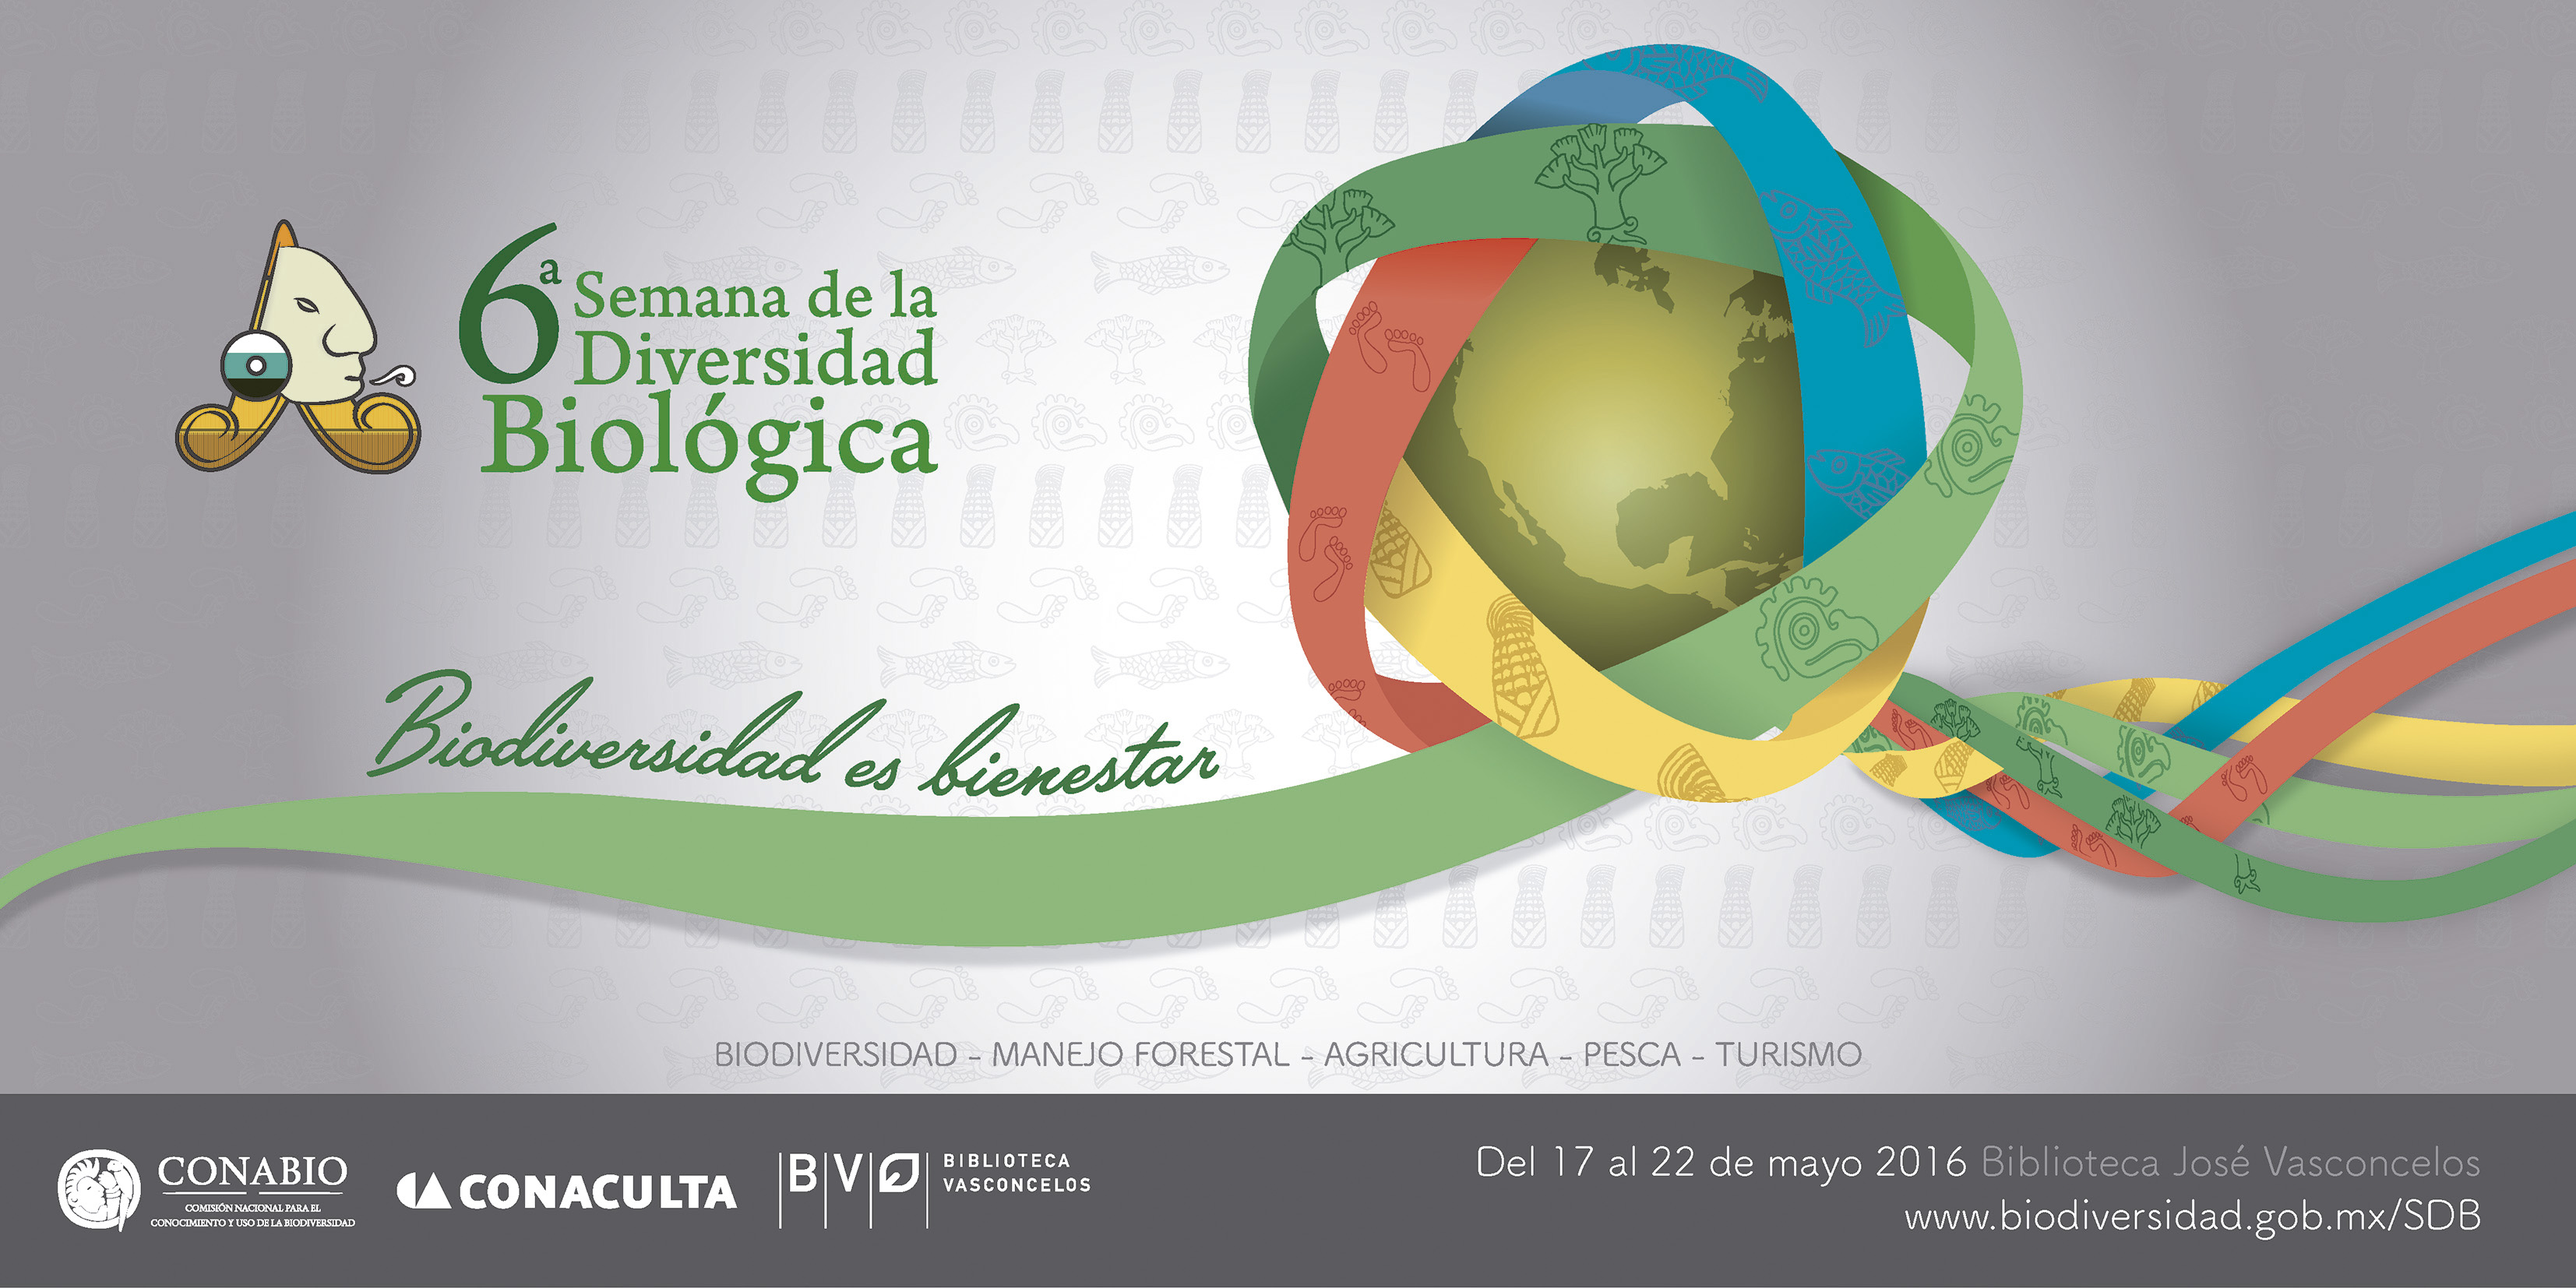
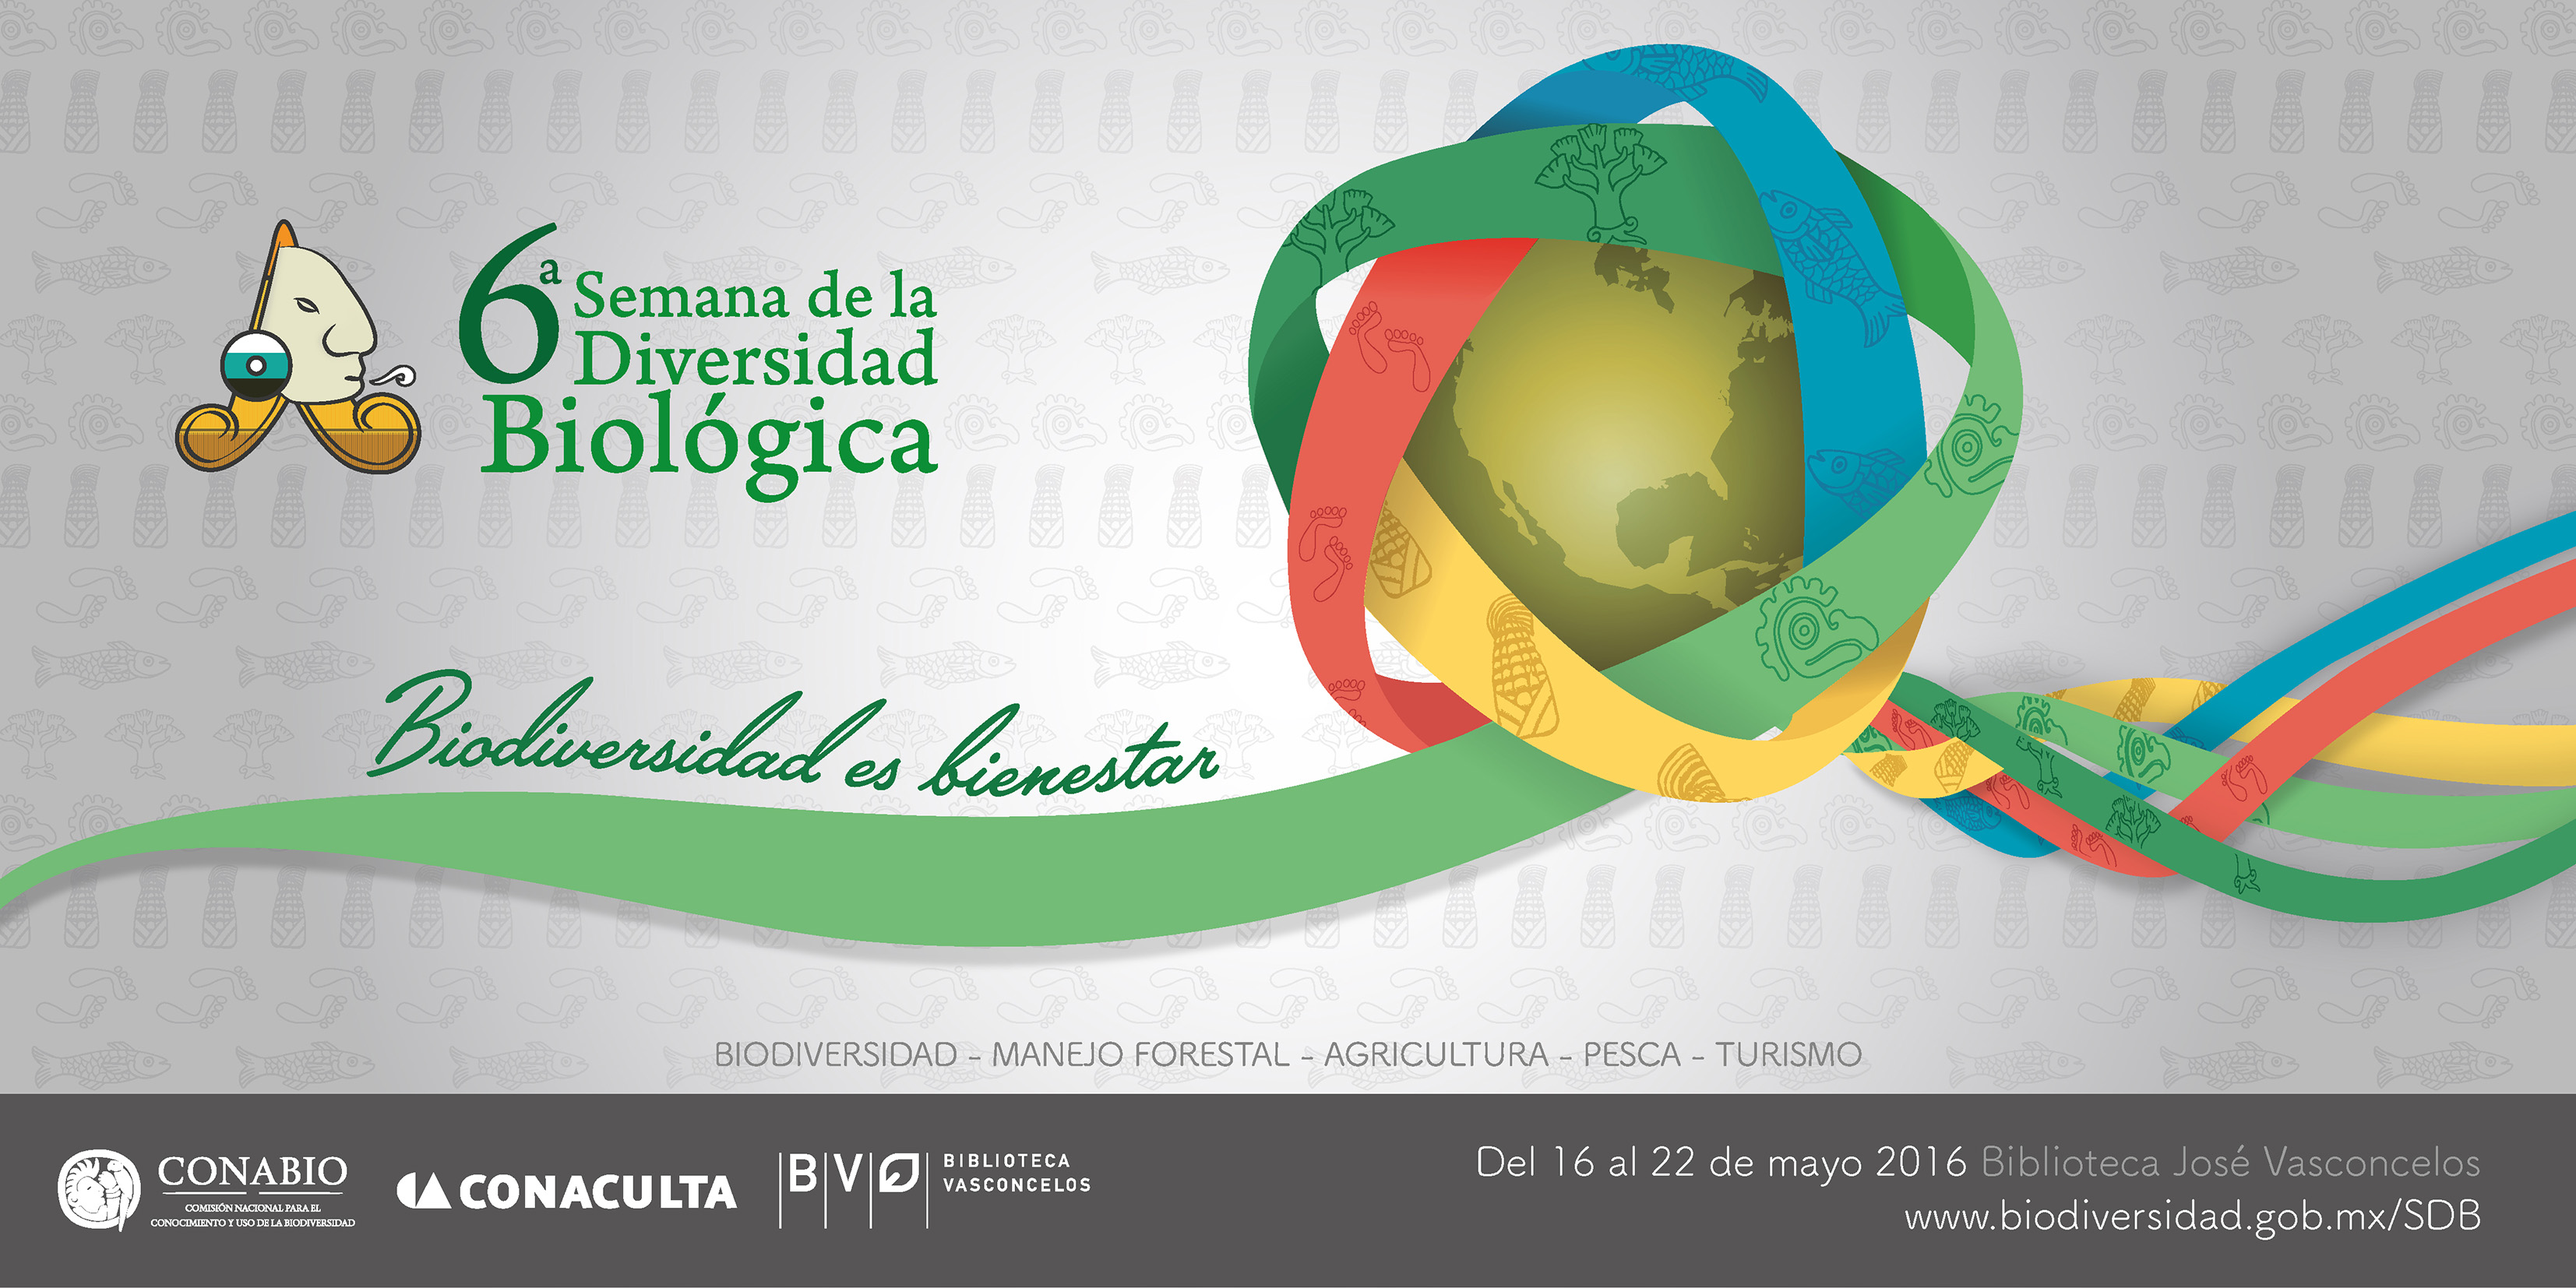
Cambio de fecha a 16

diff --git a/protected/views/semana/inicio.php b/protected/views/semana/inicio.php
@@ -1,4 +1,4 @@
-<p>La Comisi&oacute;n Nacional para el Conocimiento y Uso de la  Biodiversidad <span class="conabio">Conabio</span> te invita a participar activamente en la&nbsp;<strong>6&ordf; Semana de la Diversidad Biol&oacute;gica</strong>,  durante el per&iacute;odo del <strong>17 al 22 de mayo </strong>del a&ntilde;o en curso,  realizando <a href="<?php echo Yii::app()->request->baseUrl; ?>/index.php?r=semana/admin">actividades de divulgaci&oacute;n</a> con el tema&nbsp;<strong>Biodiversidad es bienestar.</strong></p>
+<p>La Comisi&oacute;n Nacional para el Conocimiento y Uso de la  Biodiversidad <span class="conabio">Conabio</span> te invita a participar activamente en la&nbsp;<strong>6&ordf; Semana de la Diversidad Biol&oacute;gica</strong>,  durante el per&iacute;odo del <strong>16 al 22 de mayo </strong>del a&ntilde;o en curso,  realizando <a href="<?php echo Yii::app()->request->baseUrl; ?>/index.php?r=semana/admin">actividades de divulgaci&oacute;n</a> con el tema&nbsp;<strong>Biodiversidad es bienestar.</strong></p>
 <!--<p align="center">
   <iframe width="350" height="197" src="https://www.youtube.com/embed/dzKCa_yIorg?rel=0&amp;showinfo=0" frameborder="0" allowfullscreen></iframe>
 <a href="<?php echo Yii::app()->request->baseUrl; ?>/imagenes/aplicacion/SDB_2015/Imagenes/programa_5sdb_01.jpg" target="_blank"><img src="<?php echo Yii::app()->request->baseUrl; ?>/imagenes/aplicacion/SDB_2015/Imagenes/programa_5sdb_peq.png" width="200" height="197" /></a>
